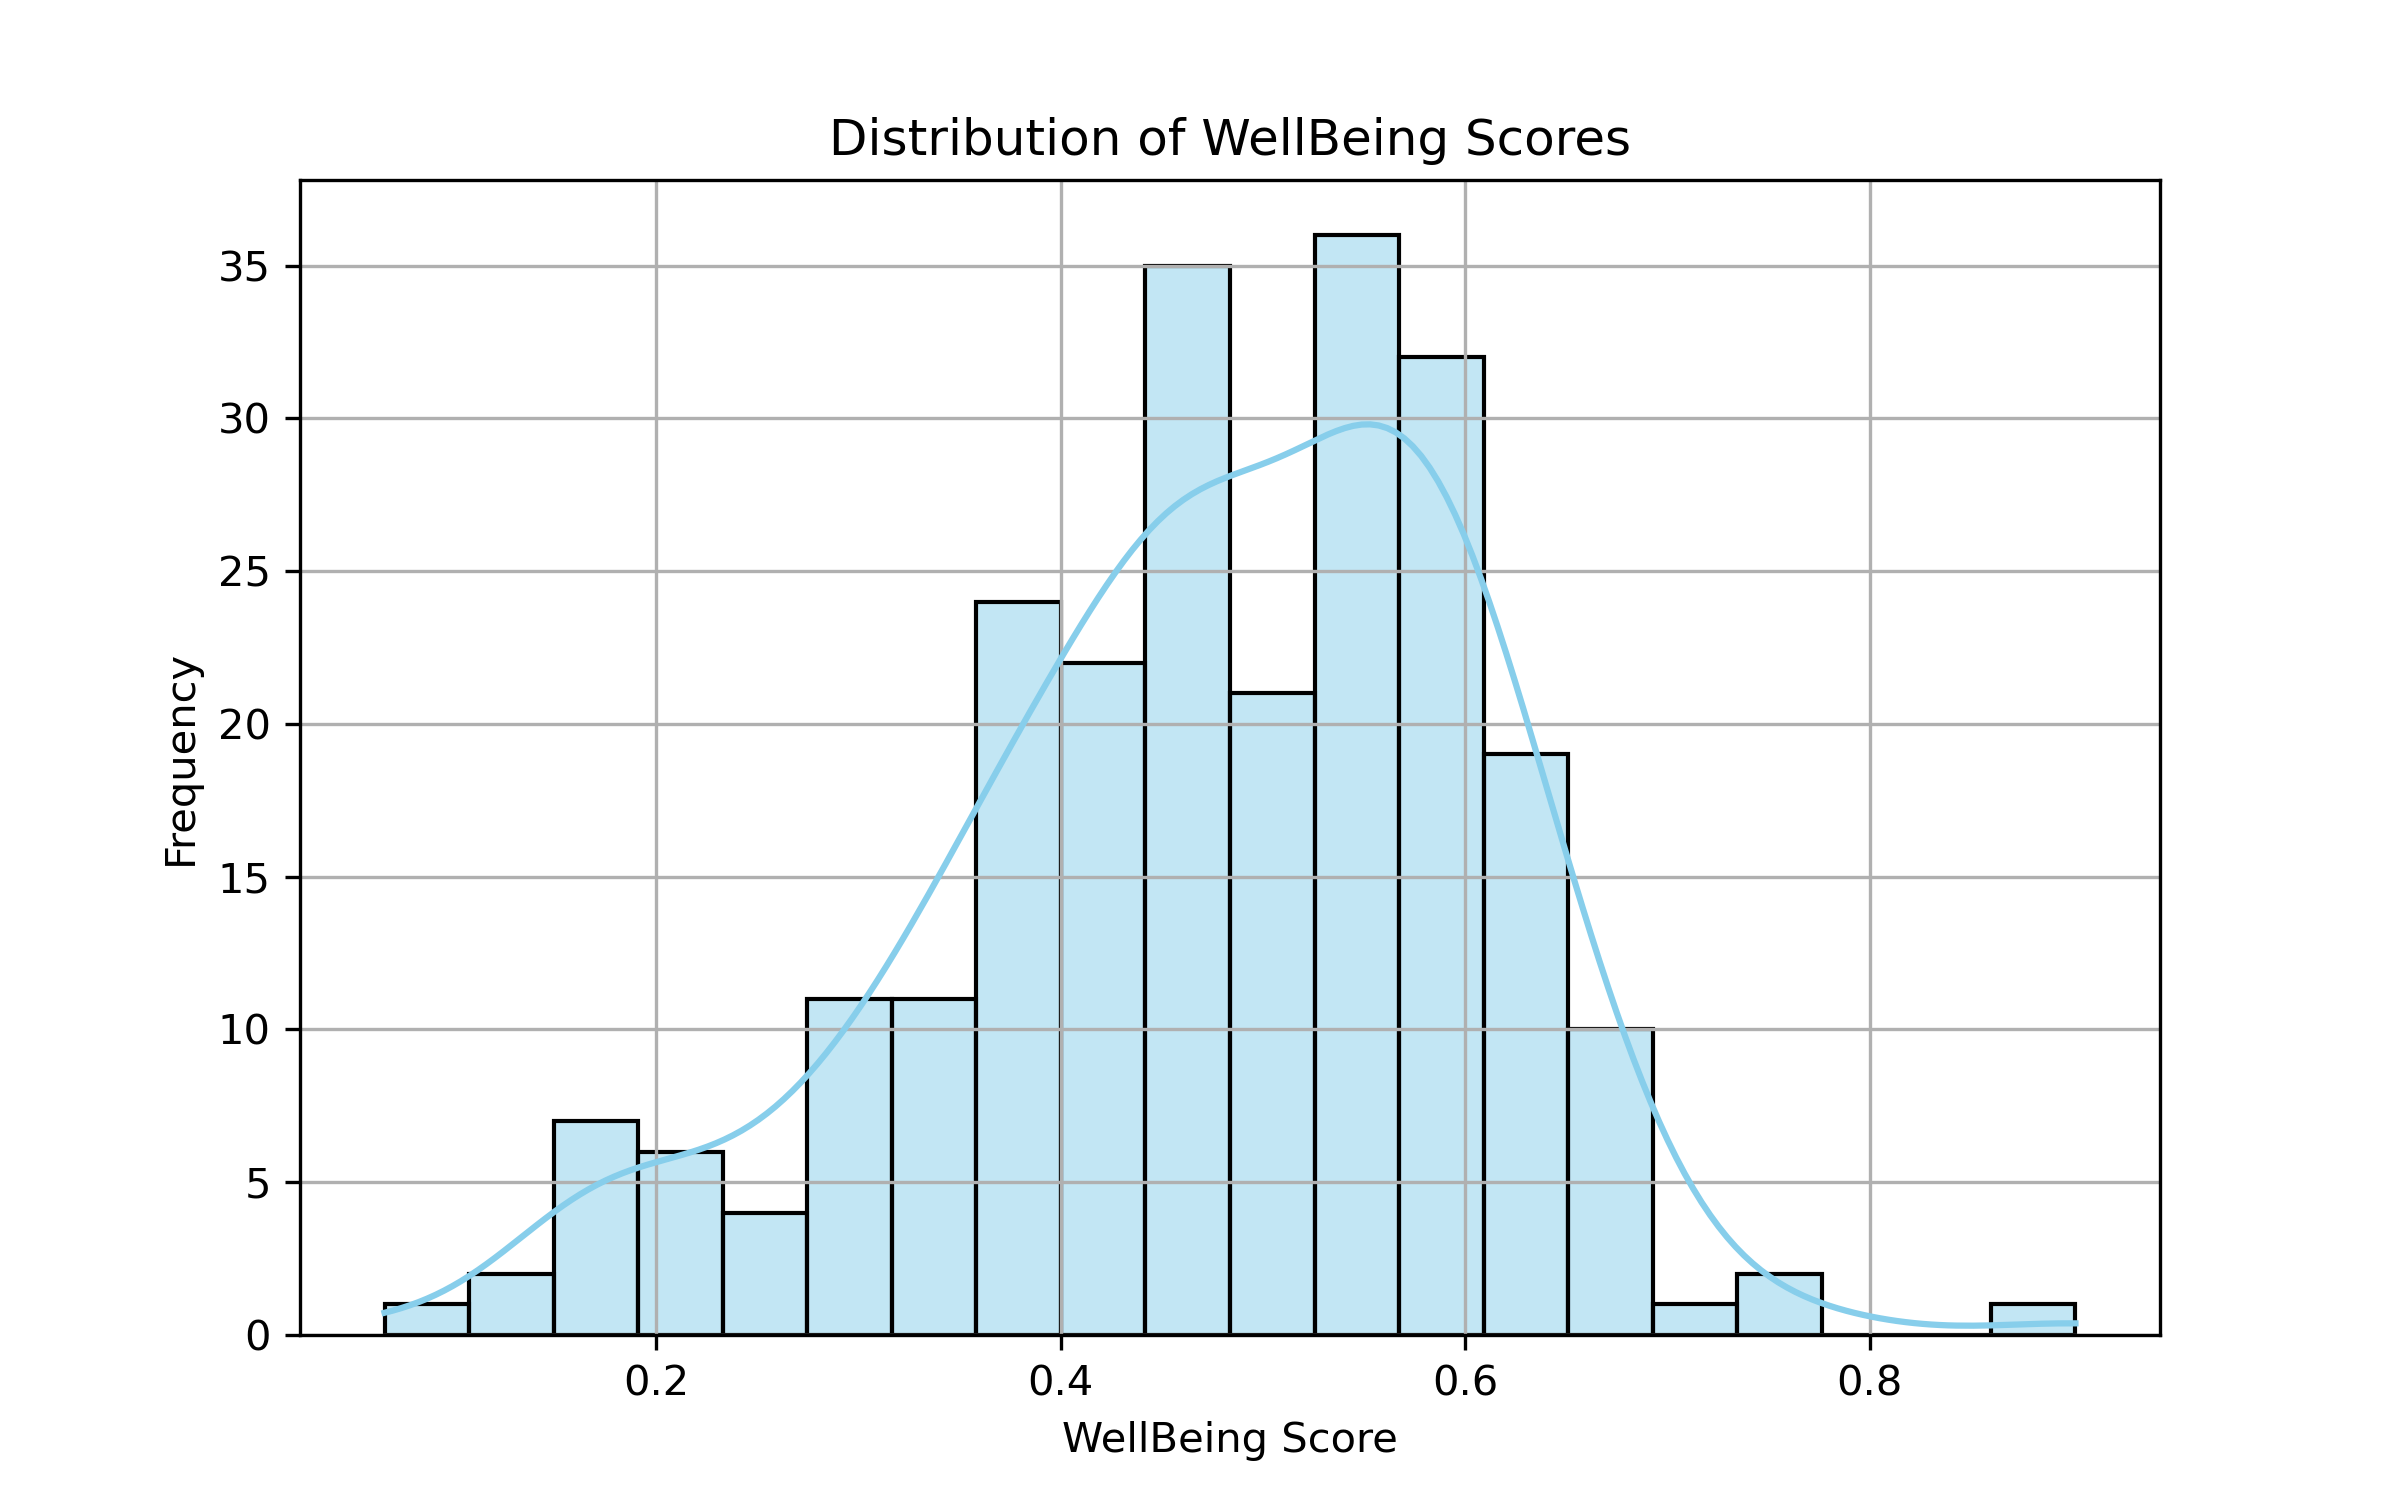
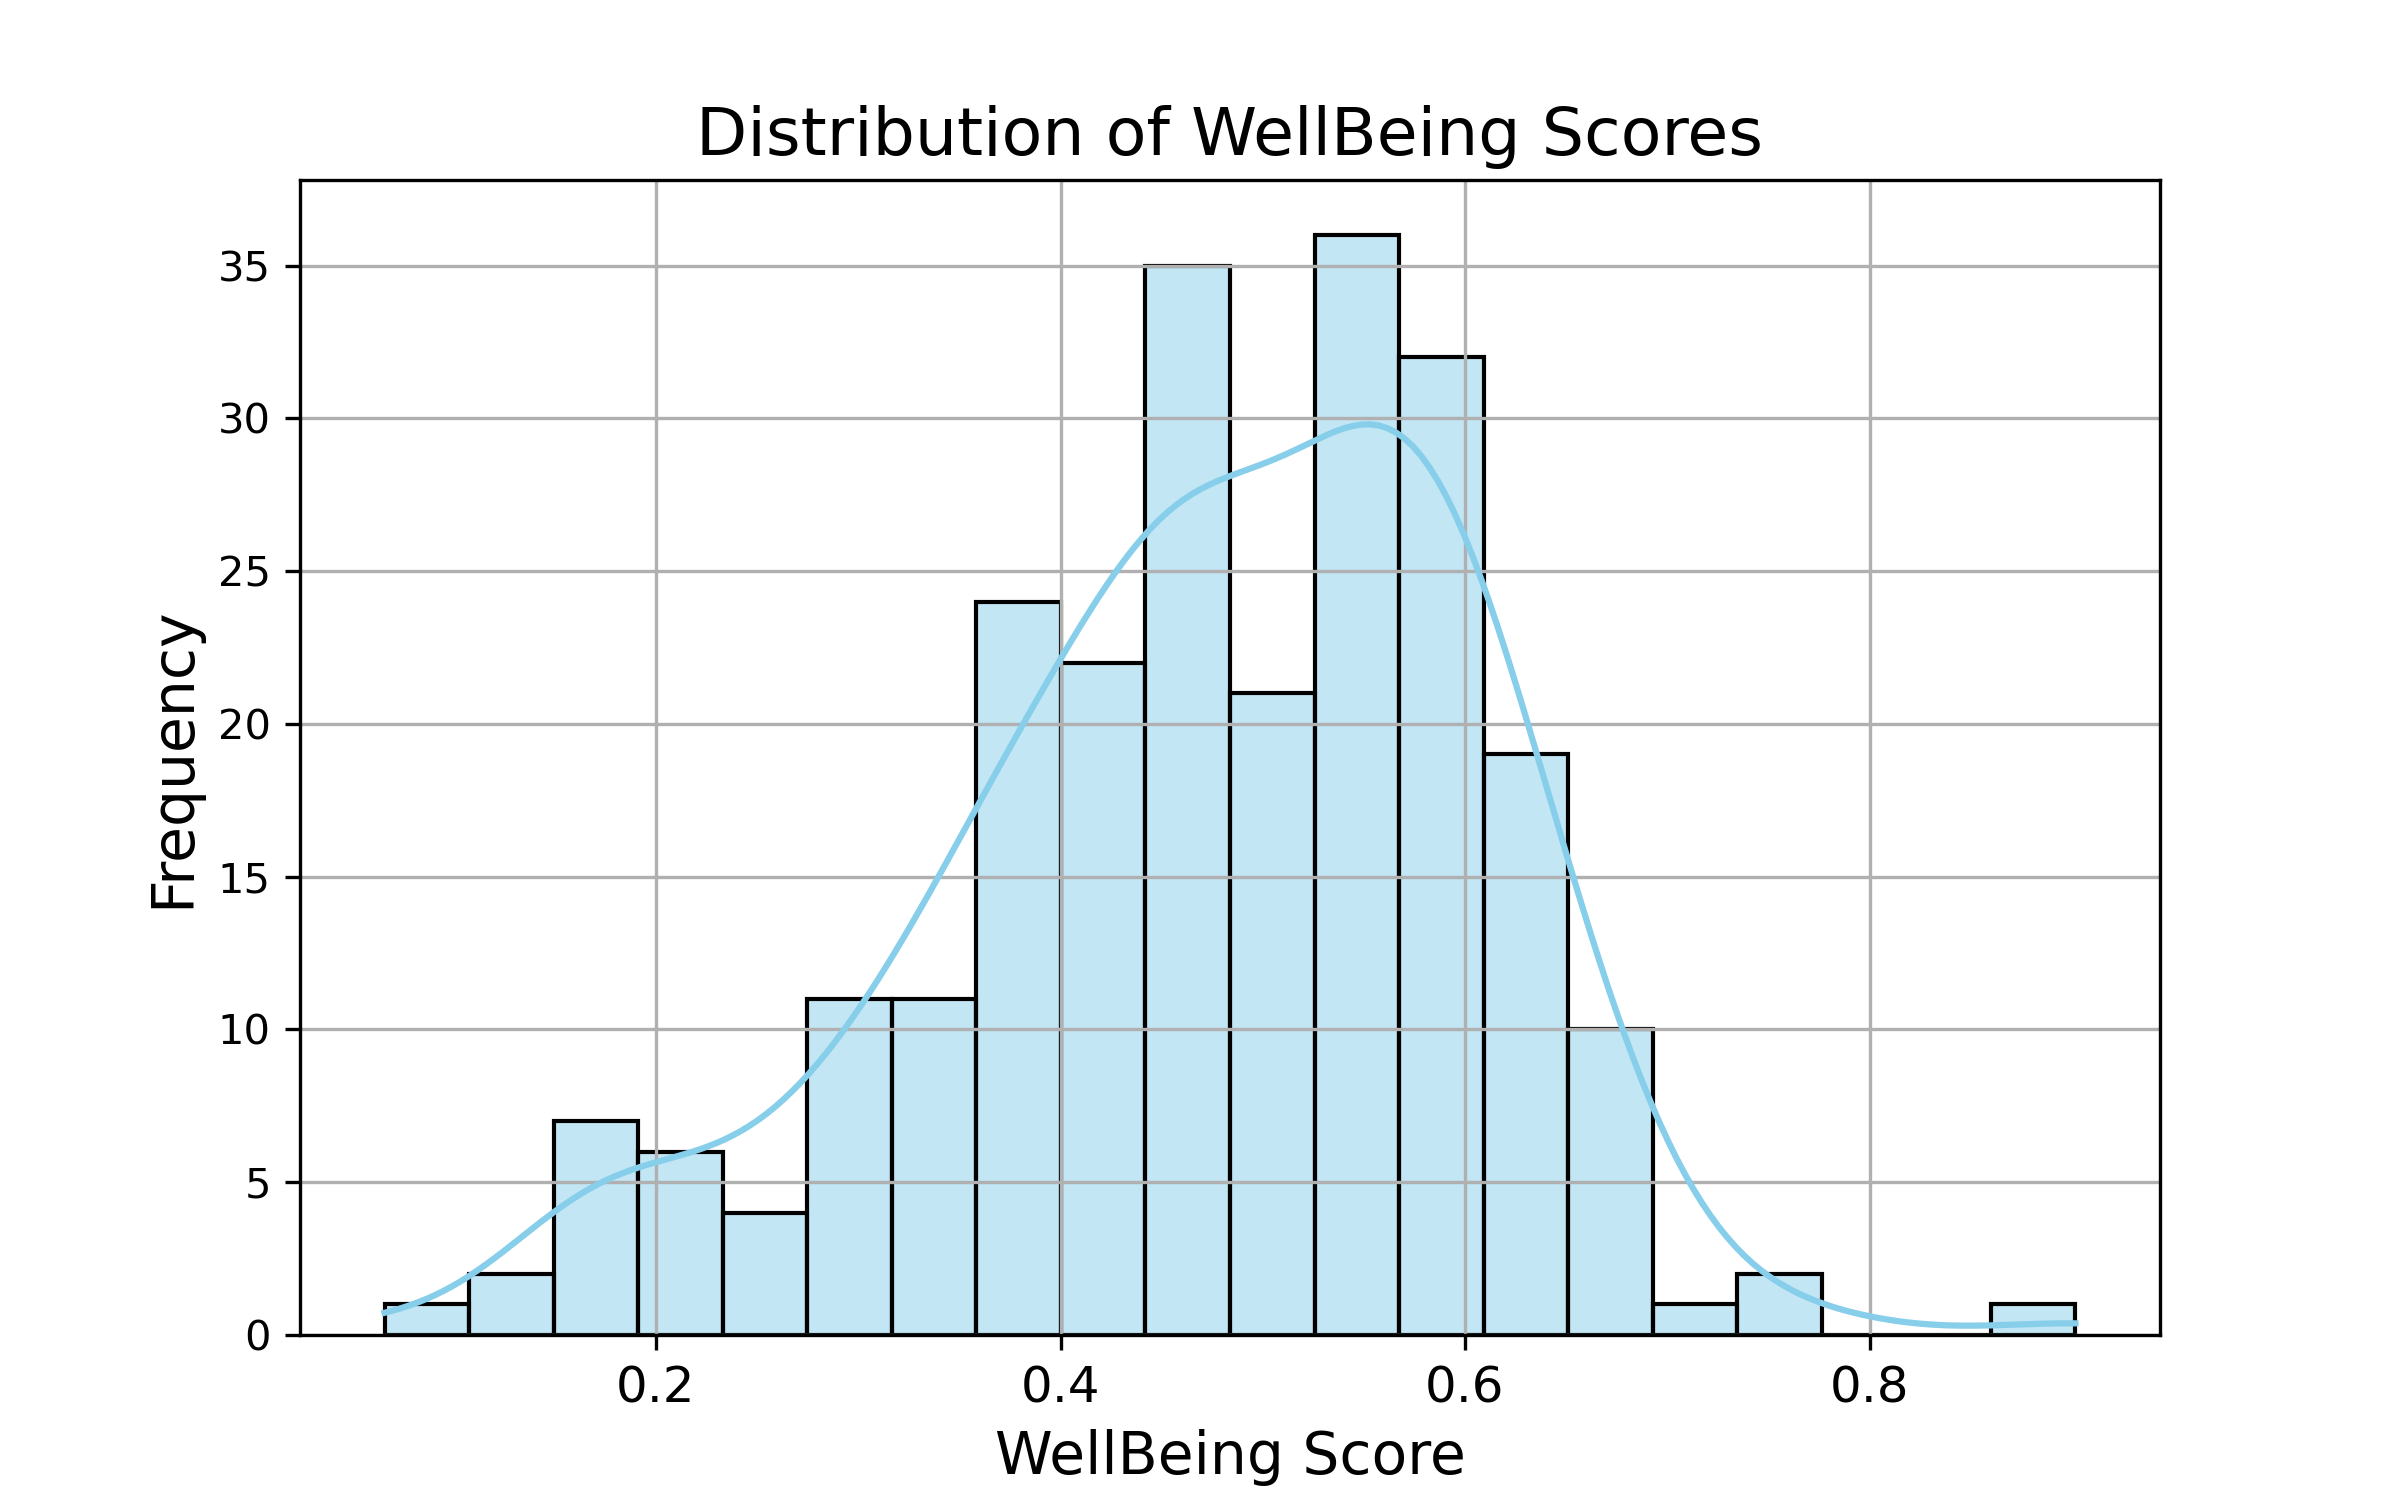
new figure for wellbeing distribution

diff --git a/5_feature_engineering/apply_engineering.py b/5_feature_engineering/apply_engineering.py
@@ -28,9 +28,10 @@ df['WellBeing'] = (df['Norm.SleepDeviation'] + df['Norm.Stress'] + df['Norm.Spor
 print(df['WellBeing'].describe())
 plt.figure(figsize=(8, 5))
 sns.histplot(df["WellBeing"], bins=20, kde=True, color="skyblue")
-plt.title("Distribution of WellBeing Scores")
-plt.xlabel("WellBeing Score")
-plt.ylabel("Frequency")
+plt.title("Distribution of WellBeing Scores", fontsize=16)
+plt.xlabel("WellBeing Score", fontsize=14)
+plt.xticks(fontsize=12)
+plt.ylabel("Frequency", fontsize=14)
 plt.grid(True)
 plt.savefig(dir + 'figs/well_being_distribution.png', dpi=300)
 
